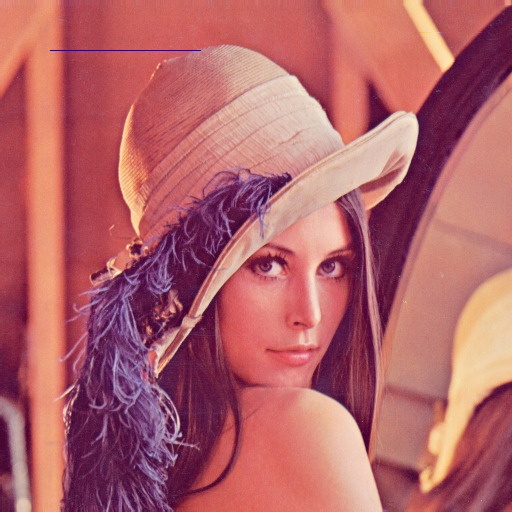
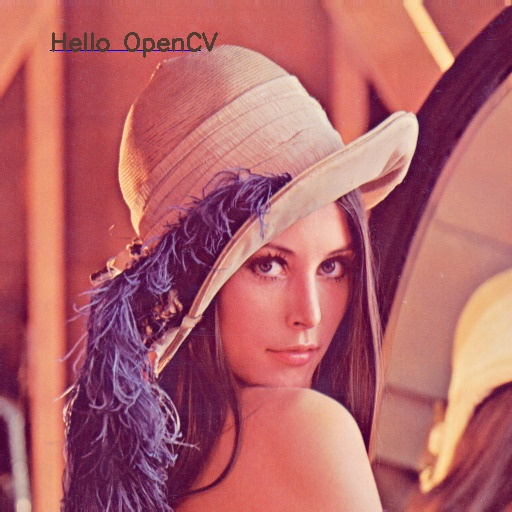
putText関数の処理を追加しました

Changed region(s): [[0.0938, 0.0625, 0.4375, 0.125]]

diff --git a/lines_on_image.py b/lines_on_image.py
@@ -16,6 +16,9 @@ try:
     # 座標=(50,50)から(200,50)まで青色255で線を引く
     cv2.line(img, (50,50), (200,50), (250,0,0))
 
+    # 座標=文字列の左下隅の座標、fontの種類=cv2.FONT_HERSHEY_SIMPLEX, フォントスケール、color(b,g,r),太さ　で文字をかく（putText）
+    cv2.putText(img, 'Hello OpenCV', (50,50), cv2.FONT_HERSHEY_SIMPLEX, 0.8, (50,60,80),2)
+
     cv2.imwrite('./tmp3/LineOnImage.jpg',img)
 
 except:
